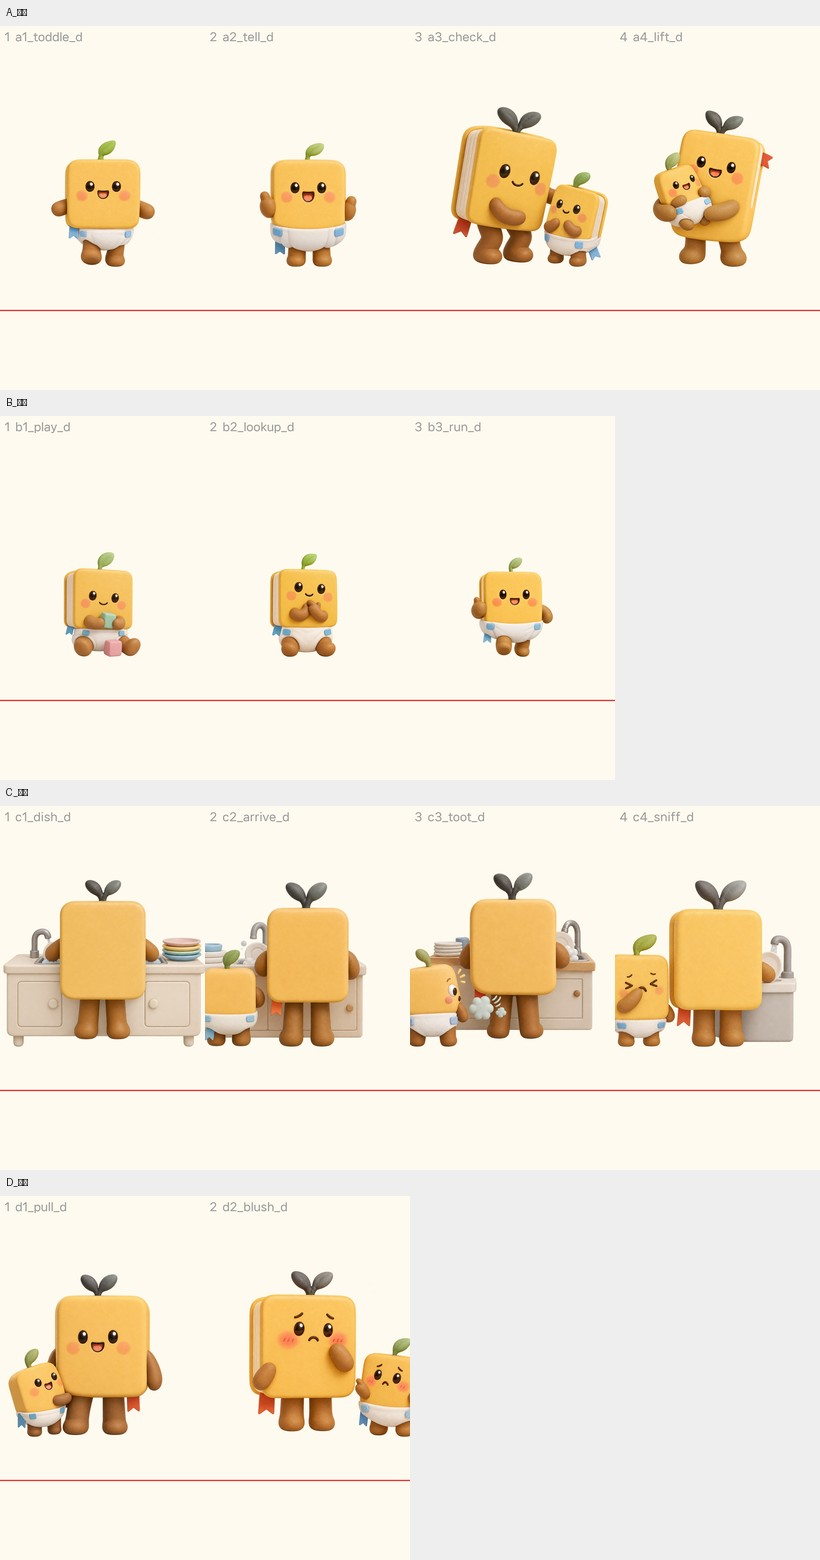
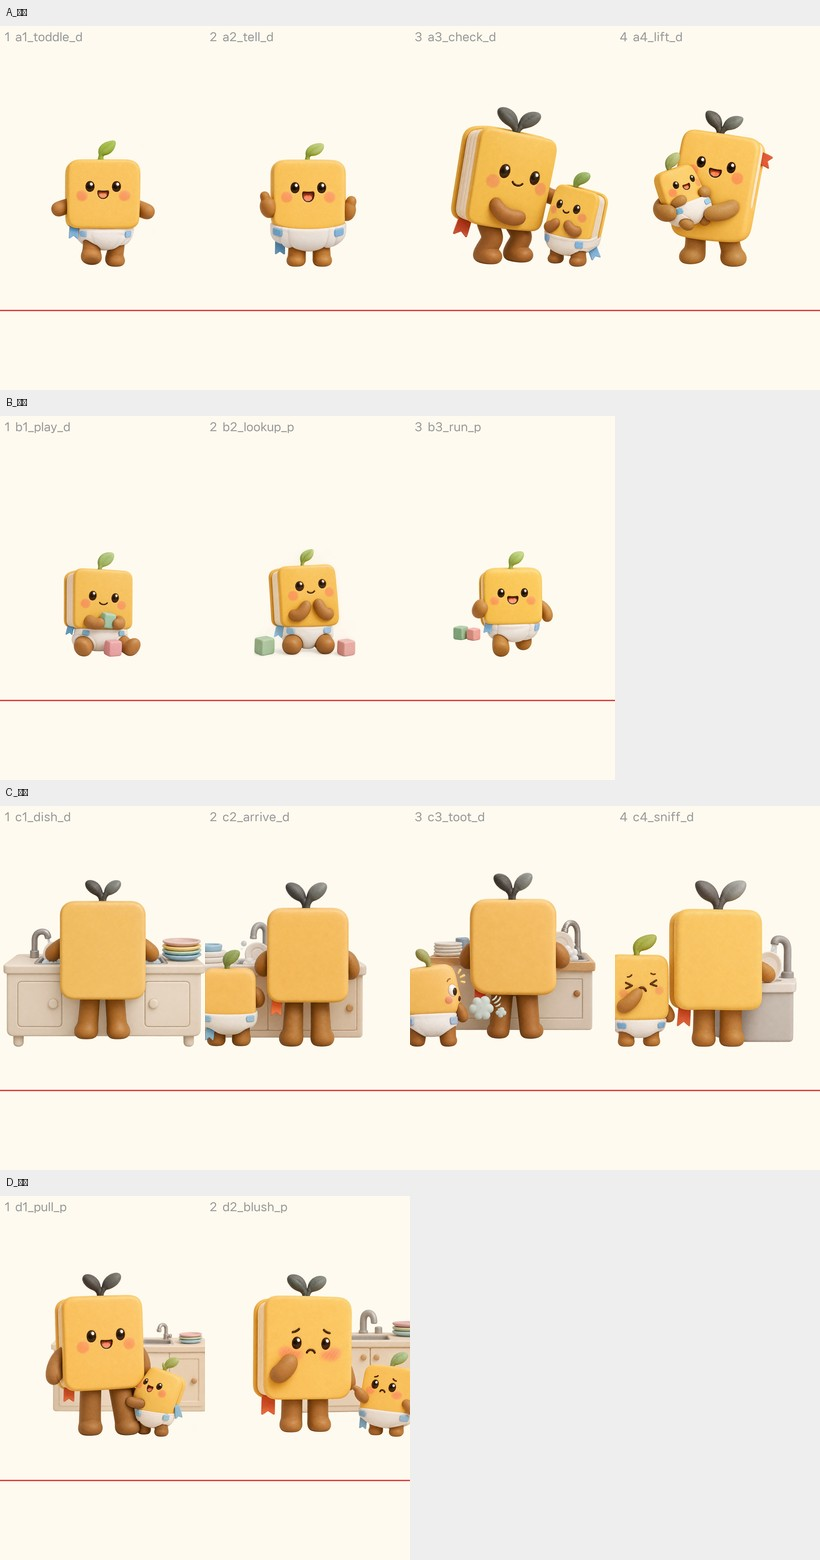
auto: 2026-11-10 10:23:20.36

diff --git a/_studio/export_poop.py b/_studio/export_poop.py
@@ -24,12 +24,13 @@ GROUPS = {
     # A — 아기 단독 컷(1·2)을 0.78 로 키워 3·4 의 아기와 크기를 맞춘다.
     'A_평소': [('a1_toddle_d', 0.78), ('a2_tell_d', 0.78),
                ('a3_check_d', 1.0), ('a4_lift_d', 1.0)],
-    # B — 전부 아기 단독이라 묶음 안에서만 일정하면 된다.
-    'B_그날': [('b1_play_d', BABY), ('b2_lookup_d', BABY), ('b3_run_d', BABY)],
+    # B — 전부 아기 단독. 블록이 1번에만 있으면 보간 중에 사라지므로 3컷 모두 깔았다.
+    'B_그날': [('b1_play_d', BABY), ('b2_lookup_p', BABY), ('b3_run_p', BABY)],
     # C — 싱크대 모양이 묶음 안에서 바뀌면 보간할 때 배경이 출렁인다. 1번도 같이 다시 뽑았다.
     'C_사건': [('c1_dish_d', 1.0), ('c2_arrive_d', 1.0),
                ('c3_toot_d', 1.0), ('c4_sniff_d', 1.0)],
-    'D_결말': [('d1_pull_d', 1.0), ('d2_blush_d', 1.0)],
+    # D — C 와 같은 부엌을 뒤에 둔다. 장소를 안 보여주면 힉스필드가 다른 방으로 바꾼다.
+    'D_결말': [('d1_pull_p', 1.0), ('d2_blush_p', 1.0)],
 }
 
 
